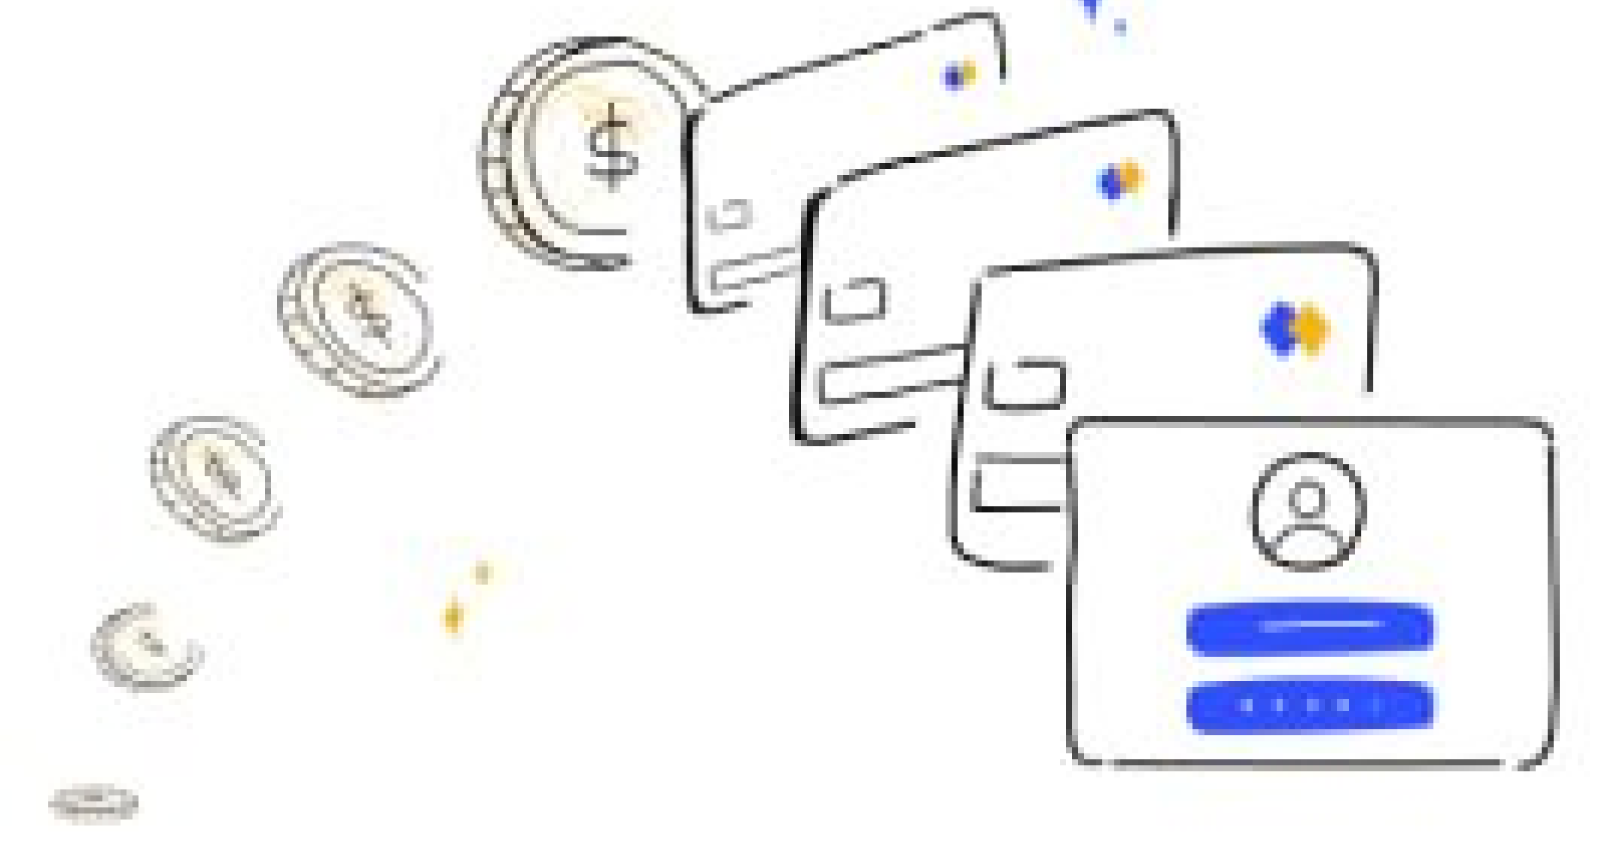
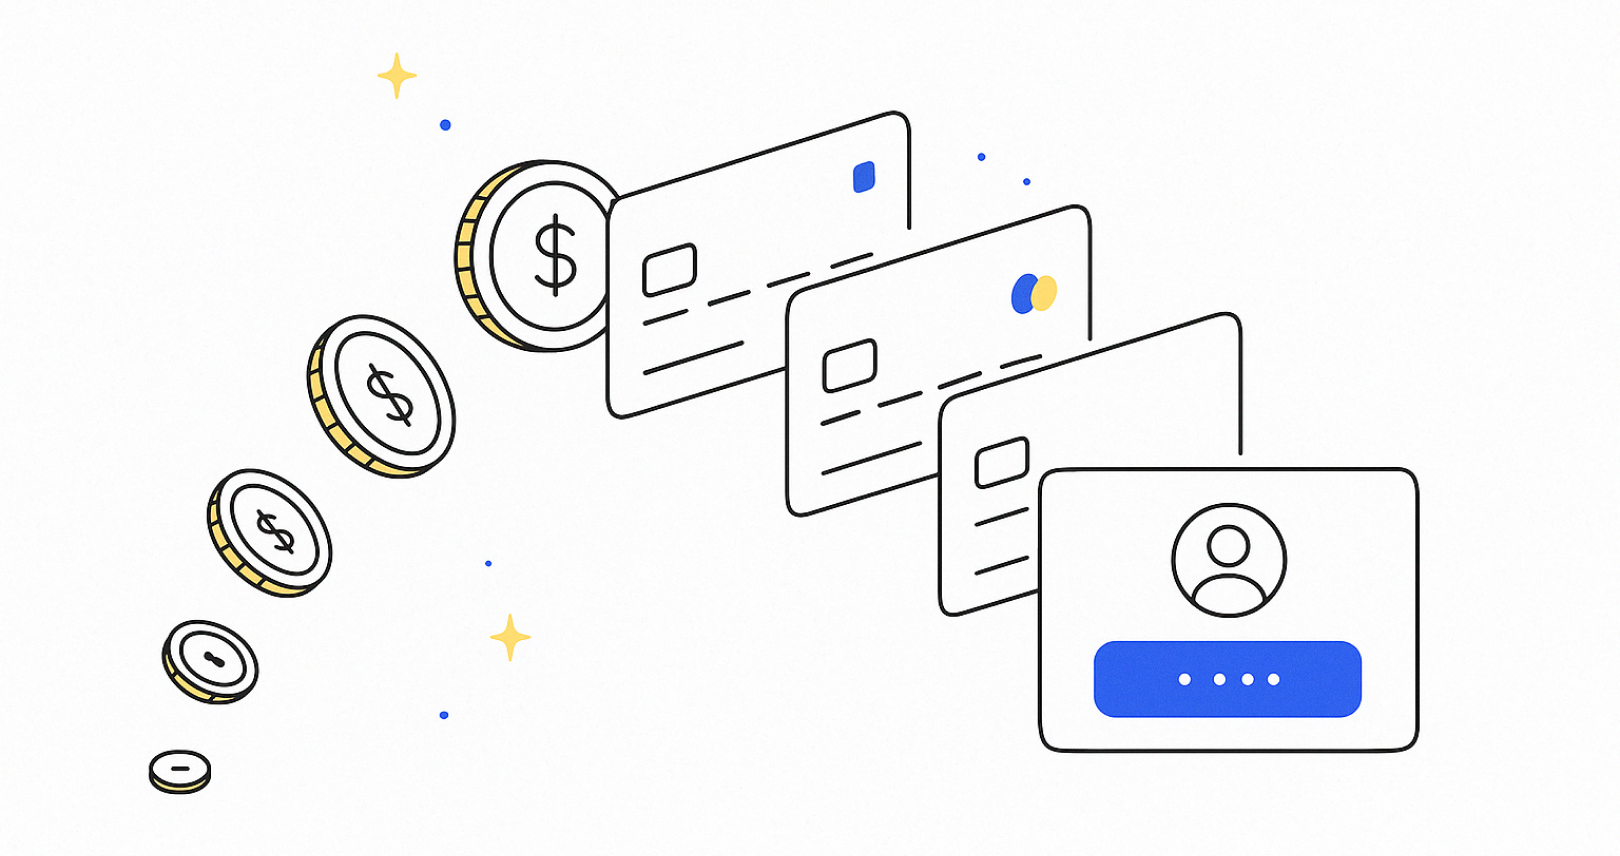
- changed pixeled image in select auth type screen

diff --git a/lib/features/Auth/select_auth_type_screen.dart b/lib/features/Auth/select_auth_type_screen.dart
@@ -23,16 +23,16 @@ class SelectAuthTypeScreen extends StatelessWidget {
               children: [
                 Padding(
                   padding:
-                      const EdgeInsets.symmetric(horizontal: 13, vertical: 30),
-                  child: Image.asset(Assets.images.startpage.path, height: 240),
+                      const EdgeInsets.symmetric(horizontal: 10, vertical: 20),
+                  child: Image.asset(Assets.images.startpage.path, height: 250),
                 ),
-                const SizedBox(height: 99),
+                const SizedBox(height: 30),
                 CustomButton(
                     text: 'Log in',
                     onPressed: () {
                       context.pushNamed(SelectCategoryScreen.id);
                     }),
-                const SizedBox(height: 37),
+                const SizedBox(height: 30),
                 CustomButton(
                     text: 'Sign up',
                     onPressed: () {
@@ -42,7 +42,7 @@ class SelectAuthTypeScreen extends StatelessWidget {
             ),
           ),
           Padding(
-            padding: const EdgeInsets.symmetric(horizontal: 24.0, vertical: 16),
+            padding: const EdgeInsets.symmetric(horizontal: 20, vertical: 30),
             child: RichText(
               text: const TextSpan(
                 style: TextStyle(
